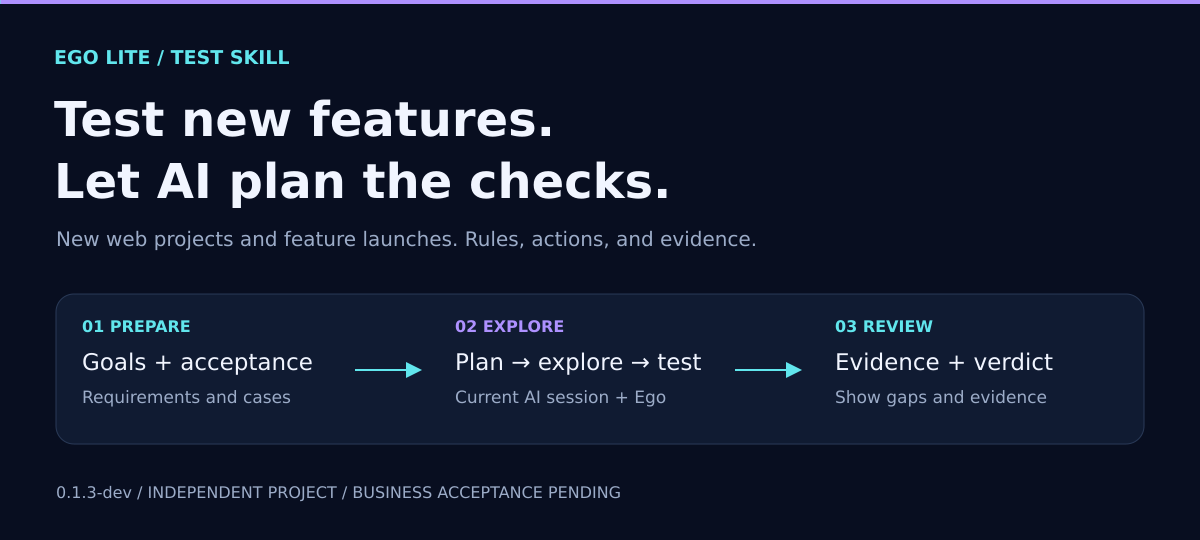
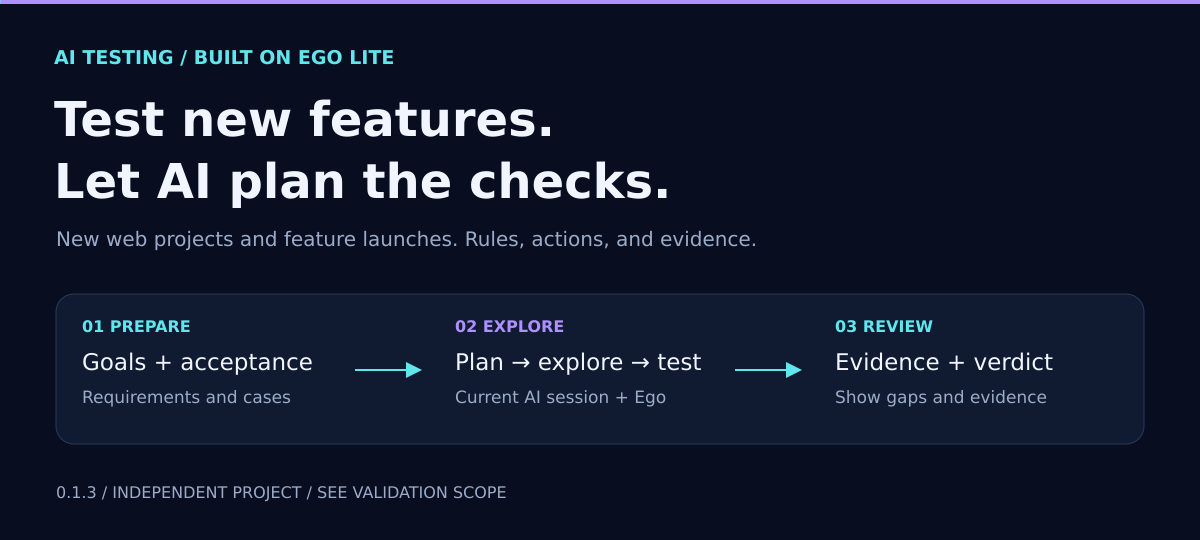
release: 定版 v0.1.3 并统一版本与验证说明

Changed region(s): [[0.0925, 0.8889, 0.5242, 0.9481], [0.0308, 0.0889, 0.3392, 0.1185]]

diff --git a/docs/images/render.py b/docs/images/render.py
@@ -21,8 +21,8 @@ for zh in [False,True]:
  suffix='.zh-CN' if zh else ''
  def t(en,cn):return cn if zh else en
  p=start('Ego Lite Test Skill',540)
- p += [text(54,64,'EGO LITE / TEST SKILL',19,'cyan',700),text(54,136,t('Test new features.','新功能首次交付，'),48,'text',700),text(54,198,t('Let AI plan the checks.','让 AI 自主规划测试。'),48,'text',700),text(56,246,t('New web projects and feature launches. Rules, actions, and evidence.','面向新项目上线前、新功能交付时的 Web 业务验证'),20,'muted')]
- p += [rect(56,294,1088,150),text(82,332,t('01  PREPARE','01  准备测试依据'),16,'cyan',700),text(82,370,t('Goals + acceptance','目标与验收条件'),23),text(82,403,t('Requirements and cases','需求、业务规则与用例'),17,'muted'),text(455,332,t('02  EXPLORE','02  AI 自主执行'),16,'violet',700),text(455,370,t('Plan → explore → test','规划 → 探索 → 测试'),23),text(455,403,t('Current AI session + Ego','当前 AI 会话 + Ego'),17,'muted'),text(835,332,t('03  REVIEW','03  核验与交付'),16,'cyan',700),text(835,370,t('Evidence + verdict','证据与结论'),23),text(835,403,t('Show gaps and evidence','说明证据与未验证项'),17,'muted'),line(355,370,420,370),line(735,370,800,370),text(56,498,t('0.1.3-dev  /  INDEPENDENT PROJECT  /  BUSINESS ACCEPTANCE PENDING','开发版 0.1.3-dev  /  独立项目  /  业务能力待用户验收'),16,'muted')]
+ p += [text(54,64,t('AI TESTING / BUILT ON EGO LITE','AI 自主测试 / 基于 EGO LITE'),19,'cyan',700),text(54,136,t('Test new features.','新功能首次交付，'),48,'text',700),text(54,198,t('Let AI plan the checks.','让 AI 自主规划测试。'),48,'text',700),text(56,246,t('New web projects and feature launches. Rules, actions, and evidence.','面向新项目上线前、新功能交付时的 Web 业务验证'),20,'muted')]
+ p += [rect(56,294,1088,150),text(82,332,t('01  PREPARE','01  准备测试依据'),16,'cyan',700),text(82,370,t('Goals + acceptance','目标与验收条件'),23),text(82,403,t('Requirements and cases','需求、业务规则与用例'),17,'muted'),text(455,332,t('02  EXPLORE','02  AI 自主执行'),16,'violet',700),text(455,370,t('Plan → explore → test','规划 → 探索 → 测试'),23),text(455,403,t('Current AI session + Ego','当前 AI 会话 + Ego'),17,'muted'),text(835,332,t('03  REVIEW','03  核验与交付'),16,'cyan',700),text(835,370,t('Evidence + verdict','证据与结论'),23),text(835,403,t('Show gaps and evidence','说明证据与未验证项'),17,'muted'),line(355,370,420,370),line(735,370,800,370),text(56,498,t('0.1.3  /  INDEPENDENT PROJECT  /  SEE VALIDATION SCOPE','版本 0.1.3  /  独立项目  /  验证范围见文档'),16,'muted')]
  save('hero'+suffix,p)
  p=start(t('Who owns what?','谁负责什么？'),650)
  p += [text(50,65,t('AI decides. Ego operates. Tools keep records.','AI 做判断，Ego 做操作，工具管记录。'),35,'text',700),text(50,103,t('Use the current AI session and Ego. No extra model API service.','复用当前 AI 会话和 Ego 浏览器，不另建模型 API 服务。'),20,'muted')]

diff --git a/CHANGELOG.md b/CHANGELOG.md
@@ -1,17 +1,17 @@
 # 更新记录 / Changelog
 
-## 0.1.3-dev — 本地证据与结果工具箱
+## 0.1.3 — 2026-10-22 · 本地证据与图文报告交付
 
-### 报告交付修复（本地验收前，仍为开发版）
+### 报告交付修复与定版
 
 - 默认交付独立 HTML、JSON、Markdown，不能仅聊天摘要或静默降级。明确测试中需保留的事实、关键 UI 结果/缺陷的真实截图要求，以及取证受限时的证据缺口和结论复核；不强制逐步截图/expected，不改变 AI 的业务决策职责。
 - 完整目录安装包增加 scripts、schemas、格式文档、示例及 runtime-manifest；`tool-info` 确认实际根、版本、revision、schema 和指纹，CLI 拒绝安装文件缺失或不一致。只构建新目录，不覆盖不明用户修改，不新建备份或同名重复安装。
 - 报告增加截图覆盖与不同留存内容统计，去除“图片不是强制要求”的淡化措辞；`verify-report` 和生成后的读回校验核对三个文件、当前记录、证据及整理来源，回执的 browserOpen 明确为 not_checked。
 - 支持在新目录另存报告；可选 retrospective context（schemaVersion 1）标明事后整理、真实来源/限制、补充用例和 AI 逐目标复核，原记录结论单列，不覆盖或删除旧报告，不补造截图、执行步骤或时间，不重跑业务。
-- 升级影响：软件仍为 0.1.3-dev，tool revision 为 html-report-delivery-1；case/run/request 仍为 schemaVersion 3，派生 report.json 增加 evidenceCoverage 和可选 context。旧安装须使用完整包更新，不能只复制说明文件；不提供历史迁移或删除。中文/英文 README 与指南同步。
-- 本次验证结果见 docs/testing.md 与 docs/testing.en.md；历史 56/56、52 PASS/4 SKIP 等记录保留为历史，不代替本次结果。未授权 main 合并、Tag 或 Release；正式发布继续等待用户本地能力验收。
+- 升级影响：软件定版为 0.1.3，tool revision 为 html-report-delivery-1；case/run/request 仍为 schemaVersion 3，派生 report.json 增加 evidenceCoverage 和可选 context。旧安装须使用完整包更新，不能只复制说明文件；不提供历史迁移或删除。中文/英文 README 与指南同步。
+- 本次验证结果见 docs/testing.md 与 docs/testing.en.md；历史 56/56、52 PASS/4 SKIP 等记录保留为历史，不代替本次结果。用户于 2026-10-22 完成本地试用后决定定版，并授权合并 main 与发布；这一决定不替代文档中未完成的专项验证。
 
-English: Default three-format delivery, real screenshots for key UI conclusions, standalone version-checked installation, report readback verification and explicit retrospective provenance/reviews. No fixed business execution route, automatic verdict inference, historical overwrite or release.
+English: Default three-format delivery, real screenshots for key UI conclusions, standalone version-checked installation, report readback verification and explicit retrospective provenance/reviews. No fixed business execution route, automatic verdict inference or historical overwrite.
 
 
 - 明确首要场景为新项目首次上线前、新功能首次交付时的 Web 业务验证；区分 AI 自主规划能力与上线质量保证，同步中英文介绍。
@@ -28,12 +28,12 @@ English: Default three-format delivery, real screenshots for key UI conclusions,
 - 所有用例、运行 JSON、请求与 `report.json` 使用 schemaVersion 3。这是相对 v0.1.2 schemaVersion 2 的格式断裂；本分支不提供迁移层。保留业务意图步骤、来源依据、可选步骤预期和旧状态语义；`report.html` 是从通过校验的 v3 数据生成的离线呈现文件。
 - 新增证据请求、结果请求与 Skill 本地工具箱调用指南，中英文格式/架构/README 同步；示例仅包含合成数据。未实现数据对比、测试数据生成、导入、脱敏或跨次对比。
 - 本开发分支新增标准 MIT 许可证（Copyright (c) 2026 99Like-wjj），仅适用于本项目自有代码与文档；不覆盖 Ego、其官方浏览器或其他第三方软件，且不改变仓库私有状态或 v0.1.2 历史发布。
-- v0.1.3 Release 需等待用户本地能力验收通过；本次只更新开发分支，不建 v0.1.3 tag 或 release。
-- 另建 [`docs/requirements.md`](docs/requirements.md) 记录 v0.1.4 的 subagent 并行及单用例单 Space 待研究需求；此项没有并入 v0.1.3-dev 工具箱实现。
+- 版本号、Skill 元数据、工具版本校验与安装包统一为 0.1.3；正式发布绑定精确提交，未混入 v0.1.4 并行实现。
+- 另建 [`docs/requirements.md`](docs/requirements.md) 记录 v0.1.4 的 subagent 并行及单用例单 Space 待研究需求；此项没有并入 v0.1.3 工具箱实现。
 
 修复前历史验证：Linux / Node v24.19.0，56/56 合成测试通过（44 项辅助工具、12 项发布检查器），零失败、零跳过；`npm run check:public` 扫描 64 个 allowlist 文件并通过。覆盖 HTML 报告的内嵌截图、冻结上下文、来源/hash 显示、图片解码错误、历史剩余问题、尝试与未尝试区分、close/sync 错误回滚和被替换输出保护、注入文本转义、SVG 安全预览、完整性失败不落盘和悬空引用回归。另在 Windows 对提交 `8af3754` 完成合成验证：52 PASS、0 FAIL、4 SKIP（符号链接权限），64 文件检查和含两份合成 PNG 的报告生成通过；未执行 Ego 或业务环境实测。本地浏览器工具拒绝打开 file://，没有绕过限制。再次尝试 Chromium headless 仍以 timeout exit 124 结束且未生成截图；实际视觉/交互验收为 NOT RUN。
 
-English summary: Added a local-only evidence/result toolbox with retained-copy SHA-256, revisioned idempotent writes, a run lock, history-preserving attempts, progress, and offline image-rich HTML reporting alongside JSON/Markdown. JSON case/run/request/report assets use schemaVersion 3, with no v0.1.2 migration; the HTML view wrapper is version 1. Report cards show frozen preconditions/path/order, per-attempt questions, evidence source/hash, decode errors, and distinguish never-attempted cases from attempts lacking a final outcome. The branch uses the MIT License for original project code and documentation only; it does not license Ego or third-party software. Earlier verification before the delivery repair: Linux synthetic suite 56/56, publication scan 64 files; Windows synthetic validation of commit 8af3754 reported 52 PASS, 0 FAIL, and 4 symlink-permission skips; the 64-file scan and synthetic PNG report generation passed. Chromium/local-browser visual acceptance, Ego, and real business execution remain unverified. v0.1.3 Release is gated on user local capability acceptance.
+English summary: Added a local-only evidence/result toolbox with retained-copy SHA-256, revisioned idempotent writes, a run lock, history-preserving attempts, progress, and offline image-rich HTML reporting alongside JSON/Markdown. JSON case/run/request/report assets use schemaVersion 3, with no v0.1.2 migration; the HTML view wrapper is version 1. Report cards show frozen preconditions/path/order, per-attempt questions, evidence source/hash, decode errors, and distinguish never-attempted cases from attempts lacking a final outcome. The branch uses the MIT License for original project code and documentation only; it does not license Ego or third-party software. Earlier verification before the delivery repair: Linux synthetic suite 56/56, publication scan 64 files; Windows synthetic validation of commit 8af3754 reported 52 PASS, 0 FAIL, and 4 symlink-permission skips; the 64-file scan and synthetic PNG report generation passed. Chromium/local-browser visual acceptance, Ego, and real business execution remain unverified. The owner accepted local trial results and authorized v0.1.3 finalization on 2026-10-22; unverified scopes remain explicitly documented.
 
 ## 0.1.2 — 业务意图级步骤与可选检查点
 

diff --git a/README.md b/README.md
@@ -1,6 +1,6 @@
-<p align="center"><img src="docs/images/hero.zh-CN.png" alt="Ego Lite 自主测试 Skill：面向新项目上线前和新功能首次交付的 Web 测试。由 AI 自主规划，按业务规则验证。" width="100%"></p>
+<p align="center"><img src="docs/images/hero.zh-CN.png" alt="基于 Ego Lite 的 AI 自主测试 Skill：面向新项目上线前和新功能首次交付的 Web 测试。由 AI 自主规划，按业务规则验证。" width="100%"></p>
 
-# Ego Lite 自主测试 Skill
+# 基于 Ego Lite 的 AI 自主测试 Skill
 
 <p align="center"><a href="README.en.md">English</a> · <strong>简体中文</strong><br><a href="#windows-快速开始">快速开始</a> · <a href="docs/architecture.md">架构</a> · <a href="docs/asset-formats.md">格式与命令</a> · <a href="docs/privacy.md">隐私保护</a> · <a href="docs/testing.md">验证状态</a></p>
 
@@ -10,10 +10,10 @@
 
 这里的“首次上线”是重点使用场景，不代表可以从空白信息推断全部业务规则，也不承诺测试通过就能安全上线；缺失的要求需要澄清，证据不足的结论必须保留不确定性。它也可用于已有功能的回归验证。
 
-**开发版 0.1.3-dev。** 本项目独立开发，非 Ego 官方项目，未获 Ego 背书。v0.1.3-dev 使用 schemaVersion 3，替代 v0.1.2 的 schemaVersion 2；这是有意的格式变更，不提供迁移命令。历史合成验证与本次修复验证分开记录；工具文件校验不代表真实业务能力验收。详见[验证记录](docs/testing.md)。
+**版本 0.1.3。** 本项目独立开发，非 Ego 官方项目，未获 Ego 背书。v0.1.3 使用 schemaVersion 3，替代 v0.1.2 的 schemaVersion 2；这是有意的格式变更，不提供迁移命令。历史合成验证与本次修复验证分开记录；工具文件校验不代表真实业务能力验收。详见[验证记录](docs/testing.md)。
 
 
-## 0.1.3-dev 报告交付修复
+## 0.1.3 报告交付修复
 
 执行测试后的默认交付包含独立离线 HTML、JSON 和 Markdown，除非用户明确要求其他格式；聊天摘要不能替代文件。关键 UI 结果及缺陷须留存真实截图，DOM / 日志 / 摘要作补充；不要求每次点击截图。缺图必须展示并由 AI 复核结论，不能自动当产品失败，也不能继续宣称证据完整。
 
@@ -22,7 +22,7 @@
 ```powershell
 $InstallPackage = Join-Path $env:TEMP ('ego-lite-test-' + [guid]::NewGuid().ToString('N'))
 npm run build:skill -- --output-dir $InstallPackage
-node (Join-Path $InstallPackage 'scripts/ego.mjs') tool-info --expect-version 0.1.3-dev --expect-revision html-report-delivery-1
+node (Join-Path $InstallPackage 'scripts/ego.mjs') tool-info --expect-version 0.1.3 --expect-revision html-report-delivery-1
 ```
 
 将完整目录内容安装到现有 Skill 根目录。更新前核对旧文件是否来自已知版本，出现不明修改先报告，不能覆盖用户文件、创建同名重复安装或自动增加旧版备份。运行时以**实际加载的 SKILL.md 所在目录**为工具根；源码模式只用已确认的源码绝对根。`tool-info` 输出版本、revision、schemaVersion、实际路径和指纹；安装清单缺失、文件修改或版本混用会拒绝执行。指纹不认证发布者，构建清单只包含指定分发资源，不打包真实运行目录。
@@ -31,13 +31,13 @@ node (Join-Path $InstallPackage 'scripts/ego.mjs') tool-info --expect-version 0.
 
 已有报告不得覆盖。准备一个新的仓库外目录，使用 `report --run-dir ABS_RUN --output-dir ABS_EXISTING_NEW_DIR` 另存；事后补报告再传 `--context ABS_CONTEXT_JSON`，格式见 [报告整理上下文](schemas/report-context.schema.json)。它明确整理性质、限制、现有来源与 hash、补充用例及 AI 逐目标复核，原记录结论保留单独展示，不冒充执行前冻结。工具不补造截图、采集时间、步骤或业务结论，也不为了补报告重跑业务。
 
-本修复仍为 `0.1.3-dev`，工具 revision 为 `html-report-delivery-1`。输入用例和 run 仍为 schemaVersion 3；报告 JSON 增加截图覆盖与可选事后上下文，context 自身版本为 1。不迁移、不删除既有数据。验证范围和未执行项见[验证记录](docs/testing.md)。
+本版本为 `0.1.3`，工具 revision 为 `html-report-delivery-1`。输入用例和 run 仍为 schemaVersion 3；报告 JSON 增加截图覆盖与可选事后上下文，context 自身版本为 1。不迁移、不删除既有数据。验证范围和未执行项见[验证记录](docs/testing.md)。
 
 ## 用例与判断
 
 ![测试方式：接收或生成用例，由 AI 按业务目标自主执行，并如实说明所有测试结果。](docs/images/workflow.zh-CN.png)
 
-外部用例和 Skill 按需求整理的用例均可用于新功能与回归。用例以业务意图和必要输入描述步骤；当前 AI 根据实际页面选择被授权的执行路径。`strict` 保留业务步骤顺序，`adaptive` 只允许在不改变意图、前提与覆盖时调整路径或顺序。
+外部用例和 AI 按 Skill 指南整理的用例均可用于新功能与回归。用例以业务意图和必要输入描述步骤；当前 AI 根据实际页面选择被授权的执行路径。`strict` 保留业务步骤顺序，`adaptive` 只允许在不改变意图、前提与覆盖时调整路径或顺序。
 
 整体预期与需求依据必须保留。每步 `expected` 可省略；提供时必须有独立依据，省略不会被当作未执行或自动通过。验收存在未决问题时，在冻结基线中填写 `clarificationQuestions`；只要问题非空，该用例的最终结果和每条尝试都不得为 `pass` 或 `fail`。澄清后用修订用例重新开始，不改写旧基线。
 
@@ -111,7 +111,7 @@ node .\scripts\ego.mjs start --project-dir $Project --cases $Cases --output-dir 
 }
 ```
 
-请求中的 `operationId` 是幂等凭据：同一 ID 与相同内容重试会返回原回执，不会重复追加；同一 ID 改了内容会被拒绝。新请求若 `expectedRevision` 过期会冲突拒绝。并发写入采用运行目录独占锁，冲突直接拒绝，不自动重试。响应丢失后，可用完全相同的请求重试并读取原回执。
+请求中的 `operationId` 是幂等操作标识：同一 ID 与相同内容重试会返回原回执，不会重复追加；同一 ID 改了内容会被拒绝。新请求若 `expectedRevision` 过期会冲突拒绝。并发写入采用运行目录独占锁，冲突直接拒绝，不自动重试。响应丢失后，可用完全相同的请求重试并读取原回执。
 
 ### 查询进度并生成报告
 

diff --git a/README.en.md b/README.en.md
@@ -1,6 +1,6 @@
 <p align="center"><img src="docs/images/hero.png" alt="Ego Lite Test Skill for new web projects and first feature deliveries. AI plans tests against business rules." width="100%"></p>
 
-# Ego Lite Test Skill
+# AI-led Testing Skill Built on Ego Lite
 
 <p align="center"><strong>English</strong> · <a href="README.md">简体中文</a><br><a href="#quick-start-on-windows">Quick start</a> · <a href="docs/architecture.en.md">Architecture</a> · <a href="docs/asset-formats.en.md">Format and commands</a> · <a href="docs/privacy.md">Privacy</a> · <a href="docs/testing.en.md">Validation</a></p>
 
@@ -10,28 +10,28 @@ An existing automated test suite is not required. Supply prepared cases, or prov
 
 First launch is a target use case, not a promise to infer missing rules or guarantee release readiness. Missing requirements need clarification, and insufficient evidence must remain uncertain. Existing-feature regression is also supported.
 
-**Development version 0.1.3-dev.** This independent project is not affiliated with or endorsed by Ego. v0.1.3-dev uses schemaVersion 3 in place of v0.1.2's schemaVersion 2. This is an intentional format change; no migration command is provided. Historical synthetic checks and this repair are documented separately; file checks do not establish real business acceptance. See the [validation record](docs/testing.en.md).
+**Version 0.1.3.** This independent project is not affiliated with or endorsed by Ego. v0.1.3 uses schemaVersion 3 in place of v0.1.2's schemaVersion 2. This is an intentional format change; no migration command is provided. Historical synthetic checks and this repair are documented separately; file checks do not establish real business acceptance. See the [validation record](docs/testing.en.md).
 
 
-## 0.1.3-dev report delivery fix
+## 0.1.3 report delivery fix
 
 Unless the user explicitly requests another format, completed test execution delivers standalone offline HTML, JSON, and Markdown. Chat summaries are insufficient. Key UI outcomes and defects require real screenshots; DOM, logs and summaries supplement them. The AI chooses capture moments, without a screenshot or expectation for every step. Missing screenshots must be visible and trigger conclusion review, not automatic product failure.
 
 Build a complete standalone directory from the source repository with `npm run build:skill -- --output-dir ABS_NEW_EXTERNAL_SKILL_DIR`. The package contains the Skill, guides, scripts, schemas, synthetic examples and `runtime-manifest.json`. Copying only the source Skill instructions is incomplete. Before updating an existing installation, compare known source files and report unknown edits instead of overwriting them, creating duplicate installations or adding old-version backups.
 
-Use the absolute root of the actually loaded SKILL.md, then run `node ABS_TOOL_ROOT/scripts/ego.mjs tool-info --expect-version 0.1.3-dev --expect-revision html-report-delivery-1`. Check paths, schemaVersion 3 and installationIntegrity. Every CLI command verifies installed files. Source mode uses an explicitly confirmed repository root. Fingerprints check consistency, not publisher identity.
+Use the absolute root of the actually loaded SKILL.md, then run `node ABS_TOOL_ROOT/scripts/ego.mjs tool-info --expect-version 0.1.3 --expect-revision html-report-delivery-1`. Check paths, schemaVersion 3 and installationIntegrity. Every CLI command verifies installed files. Source mode uses an explicitly confirmed repository root. Fingerprints check consistency, not publisher identity.
 
 `report` reads back all three outputs. `verify-report --run-dir ABS_RUN --report-dir ABS_REPORT_DIR` compares the files with current records, retained evidence and context sources. Receipts include paths, sizes, hashes and `browserOpen: not_checked`; actual browser opening is separate. Report access restrictions honestly without routing around them.
 
 To retain an existing report, prepare a new external directory and pass `report --output-dir ABS_EXISTING_NEW_DIR`. Post-execution assembly also passes `--context ABS_CONTEXT_JSON`, defined by [the context schema](schemas/report-context.schema.json). It records limitations, existing source files and hashes, supplemental case IDs and AI-supplied reviews for every goal. Original claims remain separate; no pre-execution freeze, screenshot, timestamp or execution step is invented. No business actions run to fill a report.
 
-This remains `0.1.3-dev`, tool revision `html-report-delivery-1`. Cases and runs keep schemaVersion 3. Reports add screenshot coverage and optional retrospective context (context version 1); existing data is neither migrated nor deleted. See [validation](docs/testing.en.md).
+This release is `0.1.3`, tool revision `html-report-delivery-1`. Cases and runs keep schemaVersion 3. Reports add screenshot coverage and optional retrospective context (context version 1); existing data is neither migrated nor deleted. See [validation](docs/testing.en.md).
 
 ## Cases and judgments
 
 ![AI-led workflow: receive or draft cases, adapt execution, and account for every goal.](docs/images/workflow.png)
 
-External cases and cases drafted by the Skill can support new-feature testing and regression. Cases describe business intent and necessary input. The current AI chooses an authorized execution route from the page it observes. `strict` preserves business-step order. `adaptive` may adjust a route or order only when intent, prerequisites, and coverage remain intact.
+External cases and cases drafted by the AI following the Skill guidelines can support new-feature testing and regression. Cases describe business intent and necessary input. The current AI chooses an authorized execution route from the page it observes. `strict` preserves business-step order. `adaptive` may adjust a route or order only when intent, prerequisites, and coverage remain intact.
 
 Keep the overall expected outcome and requirement basis. A step-level `expected` is optional; when supplied, it needs an independent source. Omitting it does not mean the step was skipped or passed automatically. When acceptance questions remain, put them in the frozen case's `clarificationQuestions`. While this list is nonempty, neither the final result nor any attempt may be `pass` or `fail`. After clarification, freeze a revised case rather than editing the old baseline.
 

diff --git a/docs/testing.md b/docs/testing.md
@@ -1,5 +1,9 @@
 # 验证记录与覆盖边界
 
+## 定版检查（2026-10-22，云端）
+
+版本号、Skill 元数据与工具版本校验已统一为 0.1.3。Linux / Node v24.19.0 最终完整回归 64/64 PASS、0 FAIL、0 SKIP。Windows 的 4 项符号链接权限跳过仍保留在下方原环境记录，Linux 通过不代替 Windows 验证。用户已反馈本地试用未发现重大问题并授权定版、合并与发布，不据此扩大专项验收范围。
+
 ## 本次报告交付修复验证（2026-10-22，Windows）
 
 - Windows / Node v24.19.0，完整 `npm test`：64 项，60 PASS、0 FAIL、4 SKIP；4 项均因当前 Windows 无合成符号链接创建权限。新增 8 项交付回归全部通过，涵盖独立安装、旧/混用 revision 拒绝、安装文件缺失/改动拒绝、三文件读回、原始文件保留、事后复核与补充分区、来源 hash/覆盖/后续变更拒绝，以及重复摘要不当作独立证据。
@@ -10,7 +14,7 @@
 - 事后报告也实际打开，核对原范围 26、补充发现 1、原记录状态、24 项当前无法判断/3 项未测试及零截图提示。此后为概览加“原记录”前缀并用生成 HTML 的 DOM 回归核对。最终安装工具生成的副本也已在 Ego 实际打开，URL、27 条记录、原记录标签、复核分区和搜索核对通过；最终截图再次因窗口最小化失败，恢复请求读回仍为 minimized，故最终完整视觉验收保持未验证，不以 DOM 成功冒充视觉通过。
 - 原报告与源 run 共 37 个文件完成前后 SHA-256 核对，未覆盖、删除或补造原始截图/时间；没有重跑真实业务。原业务结论保留为历史声明，本次证据充分性复核另外记录，不把缺图自动判成产品失败。
 
-仍未执行：4 项符号链接场景、移动视口完整视觉验收、新会话中真实业务关键截图采集及默认交付的能力验收。源码/合成回归不能替代用户本地能力验收；仍为 0.1.3-dev，不创建 Tag/Release，不合并 main。
+仍未执行：4 项符号链接场景、移动视口完整视觉验收、新会话中真实业务关键截图采集及默认交付的能力验收。源码/合成回归不能替代实际业务验收。用户于 2026-10-22 反馈本地试用未发现重大问题并决定定版，随后授权合并和发布；该反馈不是上述未执行专项的通过证明。
 
 ## 修复前历史检查（不代表本次结果）
 
@@ -51,7 +55,7 @@ JSON 格式独立复核包含 8 份 JSON Schema Draft 2020-12 自身检查、相
 
 本地浏览器工具拒绝打开 `file://` 报告，未通过本地服务器或其他浏览器通道绕过。因此真实浏览器的搜索、状态筛选、图片放大、解码错误提示仍为 **NOT RUN**，须由用户本地验收。合成报告中的状态只是 UI 测试夹具，不是真实业务结论。
 
-本次未执行 Ego、真实应用、账号、yiliai 数据或业务写入。没有测 AI 缺陷发现准确率、误报率或模型升级效果。测试结果只能支持本地结构化记录与文件行为的有限结论。v0.1.3 Release 必须等待用户本地能力验收通过；本次仅更新开发分支，不创建 tag 或 release。
+本次未执行 Ego、真实应用、账号、yiliai 数据或业务写入。没有测 AI 缺陷发现准确率、误报率或模型升级效果。测试结果只能支持本地结构化记录与文件行为的有限结论。该历史检查不代表后续用户本地试用或最终发布验证，后续结果见本文顶部。
 
 ## 运行与记录限制
 
@@ -63,7 +67,7 @@ JSON 格式独立复核包含 8 份 JSON Schema Draft 2020-12 自身检查、相
 
 ## 历史验证记录
 
-以下为过往版本的验证摘要，不应误读为 v0.1.3-dev 结果：
+以下为过往版本的验证摘要，不应误读为 v0.1.3 结果：
 
 - **v0.1.2：** 2026-10-21，Linux / Node v24.19.0，137/137 合成测试通过，旧协议为 schemaVersion 2。
 - **v0.1.1：** Linux / Node v24.19.0，90 项合成测试通过，资产格式升级至 schemaVersion 2。

diff --git a/docs/testing.en.md b/docs/testing.en.md
@@ -1,5 +1,9 @@
 # Validation record and coverage limits
 
+## Release verification (2026-10-22, cloud)
+
+Version, Skill metadata and runtime checks are aligned at 0.1.3. The full Linux / Node v24.19.0 regression suite passed 64/64 with zero failures or skips. The four Windows symlink-permission skips remain recorded below; Linux results do not substitute for Windows coverage. The owner accepted local trial results and authorized finalization, merge and release without expanding the scope of verified claims.
+
 ## Report delivery repair validation (2026-10-22, Windows)
 
 - Windows / Node v24.19.0: complete `npm test` ran 64 tests, with 60 PASS, 0 FAIL and 4 SKIP due to unavailable synthetic symlink privileges. All 8 new delivery regressions passed, covering standalone assets, revision/integrity refusals, three-file readback, retained originals, retrospective scope/reviews, source hashes, drift and duplicate text registrations.
@@ -10,7 +14,7 @@
 - The retrospective report also opened and showed the 26 original goals, one supplemental finding, 24 current inconclusive reviews, 3 untested goals and zero screenshots. A subsequent change prefixes overview metrics as original records, verified by generated DOM tests. The final installed-tool copy was also opened in Ego: URL, all 27 cases, original-record labels, review scope and search passed. Its final screenshot again failed because the window remained minimized after a restore request; final full visual acceptance remains unverified. DOM checks are not visual acceptance.
 - SHA-256 comparison preserved 37 original report/run files. No real business operation was repeated, and no capture time or screenshot was invented. Historical claims and current evidence review are separate.
 
-Not run: four symlink scenarios, full mobile visual acceptance, and new-session acceptance of real business screenshot capture/default delivery. This remains 0.1.3-dev; no main merge, tag or release is authorized.
+Not run: four symlink scenarios, full mobile visual acceptance, and new-session acceptance of real business screenshot capture/default delivery. On 2026-10-22, the owner reported no major issues in local trial use, accepted the version, and authorized merging and release. This does not establish that the listed untested scopes passed.
 
 ## Historical checks before this repair
 
@@ -51,7 +55,7 @@ The implementation uses Node.js built-ins and platform path APIs; it does not de
 
 The local browser tool refused to open the `file://` report; no local server or alternate browser channel was used to bypass that restriction. Real-browser search, status filtering, image enlargement, and decode-error notices remain **NOT RUN** and require user acceptance. The synthetic report statuses are UI fixtures, not business outcomes.
 
-No Ego, real application, account, yiliai data, or business write operation was used. AI defect-finding accuracy, false positives, and model-upgrade effects were not measured. Tests support only limited claims about local structured-record and file behavior. A v0.1.3 Release is gated on the user's local capability acceptance; this task only updates the development branch and creates no tag or release.
+No Ego, real application, account, yiliai data, or business write operation was used. AI defect-finding accuracy, false positives, and model-upgrade effects were not measured. Tests support only limited claims about local structured-record and file behavior. This historical check does not represent later owner trial use or final release verification; see the newer sections above.
 
 ## Runtime and record limitations
 
@@ -63,7 +67,7 @@ No Ego, real application, account, yiliai data, or business write operation was 
 
 ## Historical versions
 
-The following are earlier version records, not v0.1.3-dev results:
+The following are earlier version records, not v0.1.3 results:
 
 - **v0.1.2:** 2026-10-21, Linux / Node v24.19.0, 137/137 synthetic tests passed; schemaVersion 2.
 - **v0.1.1:** Linux / Node v24.19.0, 90 synthetic tests passed; asset schemaVersion 2.

diff --git a/skills/ego-lite-test/SKILL.md b/skills/ego-lite-test/SKILL.md
@@ -2,7 +2,7 @@
 name: ego-lite-test
 description: 使用已安装的 Ego Browser 与当前 AI 会话，接收外部用例或按需求生成带业务步骤的标准用例，执行证据驱动的黑盒 Web 测试，区分产品异常、执行失败和证据不足。适用于新需求/新功能自动化测试、已有用例核验、角色权限与业务流程测试；不是固定流程自动化器或 Agent 能力评测框架。
 metadata:
-  version: "0.1.3-dev"
+  version: "0.1.3"
   tool-revision: "html-report-delivery-1"
 ---
 
@@ -12,11 +12,11 @@ metadata:
 
 完整安装包包含入口、references、scripts、schemas 和格式指南。**除非用户明确指定其他格式，执行测试后的默认交付必须包含可独立打开的 HTML、结构化 JSON 和 Markdown。** 聊天摘要不能替代文件交付。工具暂不可用时仍可保存事实，但须明确报告交付阻塞，不能静默退回 Markdown 并宣称完成。
 
-开始记录前读 [本地工具箱调用指南](references/local-toolbox.md)：以本次实际加载的 `SKILL.md` 所在绝对目录为工具根，运行 `scripts/ego.mjs tool-info`，核对路径、`0.1.3-dev`、`html-report-delivery-1`、schemaVersion 3 和安装文件校验结果。源码模式只能使用已明确确认的仓库根；不得向上猜目录、凭同名目录选旧工具，或在版本不符时继续。先确认报告资源可用，避免结束时才发现安装缺失；这不规定业务执行路线。
+开始记录前读 [本地工具箱调用指南](references/local-toolbox.md)：以本次实际加载的 `SKILL.md` 所在绝对目录为工具根，运行 `scripts/ego.mjs tool-info`，核对路径、`0.1.3`、`html-report-delivery-1`、schemaVersion 3 和安装文件校验结果。源码模式只能使用已明确确认的仓库根；不得向上猜目录、凭同名目录选旧工具，或在版本不符时继续。先确认报告资源可用，避免结束时才发现安装缺失；这不规定业务执行路线。
 
 ## 两种用例来源
 
-外部已编写用例与 Skill 自行生成用例，均可用于新功能验证或回归。**准备用例时必读 [用例接收与生成](references/case-authoring.md)**，统一生成/接收 schemaVersion 3，包括条件、业务步骤、可选步骤检查点、最终预期与顺序策略。v0.1.3-dev 不接受 v0.1.2 的 schemaVersion 2 文件，也不提供迁移命令；按原始来源整理后新建运行。外部用例不擅改意图；生成用例由当前模型完成，不是 CLI 自动生成。
+外部已编写用例与 AI 按 Skill 指南生成的用例，均可用于新功能验证或回归。**准备用例时必读 [用例接收与生成](references/case-authoring.md)**，统一生成/接收 schemaVersion 3，包括条件、业务步骤、可选步骤检查点、最终预期与顺序策略。v0.1.3 不接受 v0.1.2 的 schemaVersion 2 文件，也不提供迁移命令；按原始来源整理后新建运行。外部用例不擅改意图；生成用例由当前模型完成，不是 CLI 自动生成。
 
 两者均先校验并冻结，再执行。可只生成、不执行，此时无需 Ego 连接；交付用例与待确认问题，不声称通过。只询问影响判断的实质歧义、冲突、缺失前提或权限，不要求逐条审批用例。
 

diff --git a/docs/asset-formats.md b/docs/asset-formats.md
@@ -4,7 +4,7 @@
 
 ## 版本策略
 
-v0.1.3-dev 的用例、运行 JSON、请求与 `report.json` 使用 `schemaVersion: 3`。`report.html` 是从通过校验的 v3 记录生成的离线呈现文件，不定义新的输入 schema。相较 v0.1.2 的 schemaVersion 2，本版增加 revision 化结果/证据 catalog、操作回执、证据 ID 关联和本地写入入口；结果及证据资产不再支持直接手工维护。旧运行目录和旧用例文件不会自动转换，也不提供迁移层。要使用 v3，请依据原始需求和来源重新整理用例并创建新运行；不要只改版本号，也不要改写历史基线来伪装新格式。
+v0.1.3 的用例、运行 JSON、请求与 `report.json` 使用 `schemaVersion: 3`。`report.html` 是从通过校验的 v3 记录生成的离线呈现文件，不定义新的输入 schema。相较 v0.1.2 的 schemaVersion 2，本版增加 revision 化结果/证据 catalog、操作回执、证据 ID 关联和本地写入入口；结果及证据资产不再支持直接手工维护。旧运行目录和旧用例文件不会自动转换，也不提供迁移层。要使用 v3，请依据原始需求和来源重新整理用例并创建新运行；不要只改版本号，也不要改写历史基线来伪装新格式。
 
 所有对象均为封闭格式，未知字段会被拒绝。ID 只允许 1–128 个 ASCII 字母、数字、点、下划线或连字符，首字符必须为字母或数字；`__proto__`、`prototype`、`constructor` 等危险属性名禁止使用。工具没有第三方运行依赖，需要 Node.js 22 或更新版本。
 
@@ -156,4 +156,4 @@ node scripts/ego.mjs report --run-dir ABS
 
 可选 `context` 遵循 [report-context.schema.json](../schemas/report-context.schema.json)，自身 schemaVersion=1、kind=retrospective，包含 summary、非空 limitations、sources（label/file/sha256）、supplementalCaseIds 与逐目标 reviews（caseId/status/rationale）。来源必须是当前存在的普通文件且 hash 匹配；reviews 必须覆盖每个源用例一次，状态为 verified/violation/inconclusive/not_tested。状态及理由由 AI 提供，工具只校验结构与引用。原用例与新增发现、原记录与本次复核分别展示；事后保存基线不能证明执行前冻结。
 
-以上只扩展派生报告，不改变 cases / run / requests 的 schemaVersion 3，不自动迁移或删除历史。使用已确认根下的绝对脚本路径；`tool-info` 核对 0.1.3-dev、revision、schema、路径和安装清单，独立安装资源不依赖仓库外相对链接。
+以上只扩展派生报告，不改变 cases / run / requests 的 schemaVersion 3，不自动迁移或删除历史。使用已确认根下的绝对脚本路径；`tool-info` 核对 0.1.3、revision、schema、路径和安装清单，独立安装资源不依赖仓库外相对链接。

diff --git a/docs/asset-formats.en.md b/docs/asset-formats.en.md
@@ -4,7 +4,7 @@ This guide defines cases, run directories, evidence-registration requests, resul
 
 ## Version policy
 
-v0.1.3-dev uses `schemaVersion: 3` for cases, run JSON, requests, and `report.json`. `report.html` is an offline presentation generated from validated v3 records; it does not define a new input schema. Compared with v0.1.2 schemaVersion 2, this release adds revisioned result/evidence catalogs, operation receipts, evidence-ID references, and local write commands. Results and evidence are no longer maintained by editing files directly. Old run directories and cases are not converted; there is no migration layer or migration command. To use v3, reconstruct cases from their original requirements and sources, then start a new run. Do not only change the version number or rewrite a historical baseline to make it look like a new run.
+v0.1.3 uses `schemaVersion: 3` for cases, run JSON, requests, and `report.json`. `report.html` is an offline presentation generated from validated v3 records; it does not define a new input schema. Compared with v0.1.2 schemaVersion 2, this release adds revisioned result/evidence catalogs, operation receipts, evidence-ID references, and local write commands. Results and evidence are no longer maintained by editing files directly. Old run directories and cases are not converted; there is no migration layer or migration command. To use v3, reconstruct cases from their original requirements and sources, then start a new run. Do not only change the version number or rewrite a historical baseline to make it look like a new run.
 
 All objects are closed: unknown keys are rejected. IDs allow 1–128 ASCII letters, digits, dots, underscores, or hyphens and must start with a letter or digit. Dangerous property names such as `__proto__`, `prototype`, and `constructor` are rejected. The helper has no third-party runtime dependencies and requires Node.js 22 or newer.
 

diff --git a/docs/requirements.md b/docs/requirements.md
@@ -1,6 +1,6 @@
 # 后续版本需求记录
 
-本文件记录尚未实现的需求和调研状态。下列 v0.1.4 项目不属于 v0.1.3-dev 本地证据/结果工具箱范围，未实现、未集成、未实机验证。此记录不含用户截图、实际页面内容或业务数据。
+本文件记录尚未实现的需求和调研状态。下列 v0.1.4 项目不属于 v0.1.3 本地证据/结果工具箱范围，未实现、未集成、未实机验证。此记录不含用户截图、实际页面内容或业务数据。
 
 ## v0.1.4：并行用例执行与 Ego Space 绑定（已完成初步源码调研；设计未验证）
 
@@ -45,7 +45,7 @@
 - 多进程下并行写入同一 run 的结果/证据时，工具箱锁和操作幂等策略是否足以避免冲突。
 - 后端数据、账号/租户、副作用与并发配额如何识别；profile 的 cookie、缓存共享范围也要按目标 Ego 安装版本复验。
 
-本节是调研记录和候选设计，不属于 v0.1.3-dev 实现，也不是 v0.1.4 完整设计或发布承诺。源码调研基于固定 SHA；文档 main 仅作交叉核验，未确认最新 HEAD。后续应在不访问真实业务数据的合成环境完成验证，再决定是否进入实现。
+本节是调研记录和候选设计，不属于 v0.1.3 实现，也不是 v0.1.4 完整设计或发布承诺。源码调研基于固定 SHA；文档 main 仅作交叉核验，未确认最新 HEAD。后续应在不访问真实业务数据的合成环境完成验证，再决定是否进入实现。
 
 ### 后续验收方向（待调研确认）
 

diff --git a/skills/ego-lite-test/references/local-toolbox.en.md b/skills/ego-lite-test/references/local-toolbox.en.md
@@ -6,7 +6,7 @@ The helper performs local data transactions and rendering. Unless the user expli
 
 Use the absolute directory containing the actually loaded `SKILL.md` as the installed tool root. A complete installation includes scripts, schemas, docs, examples, and `runtime-manifest.json`. In source mode use the explicitly confirmed repository root; never infer it by walking up from an installed Skill or choosing a similarly named preview directory.
 
-Run `node ABS_TOOL_ROOT/scripts/ego.mjs tool-info --expect-version 0.1.3-dev --expect-revision html-report-delivery-1`. Check toolRoot, skillFile, schemaVersion 3 and installationIntegrity (`verified` for installations, `source-layout` for source). Every CLI command also checks the installed manifest. Report unknown edits rather than overwriting them. Read `docs/asset-formats.en.md` and schemas inside that verified root. A fingerprint proves byte consistency, not publisher identity.
+Run `node ABS_TOOL_ROOT/scripts/ego.mjs tool-info --expect-version 0.1.3 --expect-revision html-report-delivery-1`. Check toolRoot, skillFile, schemaVersion 3 and installationIntegrity (`verified` for installations, `source-layout` for source). Every CLI command also checks the installed manifest. Report unknown edits rather than overwriting them. Read `docs/asset-formats.en.md` and schemas inside that verified root. A fingerprint proves byte consistency, not publisher identity.
 
 ## Boundaries
 

diff --git a/docs/architecture.md b/docs/architecture.md
@@ -8,7 +8,7 @@
 
 1. **AI 会话处理业务意图。** 它读取需求和项目资料，生成或审阅用例，结合实际页面选择下一步，并依据证据判断。路径可自适应，冻结的来源、目标、前提和明确步骤不可被静默改写。
 2. **Ego 原生浏览器执行授权操作。** 执行浏览器测试需由用户授权并遵循本机安装版本的官方 `ego-browser` Skill。本地文件工具不能访问或控制 Ego。
-3. **本地工具箱只维护事实记录。** Node CLI 不执行模型、网络、浏览器、Ego 或测试数据生成，也不自动判断 bug、选取业务路径或重试操作。它登记文件、校验记录和 hash、提供进度与报告。
+3. **本地工具箱保存调用者提交的观察与结果。** Node CLI 不执行模型、网络、浏览器、Ego 或测试数据生成，也不自动判断 bug、选取业务路径或重试操作。它登记文件、校验记录和 hash、提供进度与报告。
 
 ## 数据路径
 
